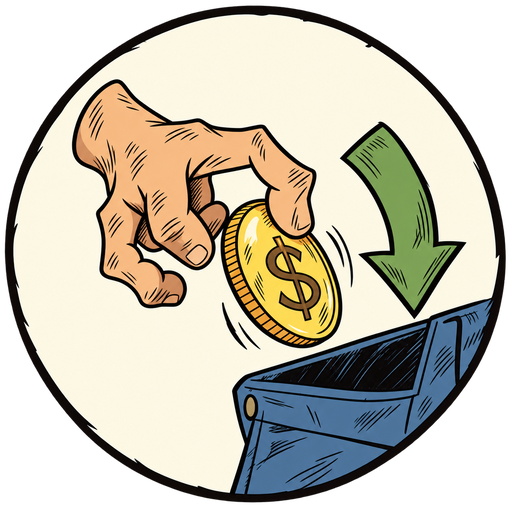
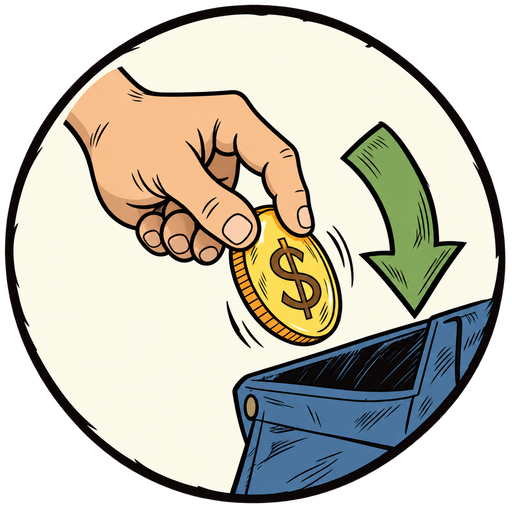
Tegn buy, give og take-off på nytt med naturlige hender

diff --git a/rapporter/verbhjul-hender-retur-02-20261015/forhandsvisning.html b/rapporter/verbhjul-hender-retur-02-20261015/forhandsvisning.html
@@ -1,0 +1,1 @@
+<!doctype html><html lang="nb"><meta charset="utf-8"><meta name="viewport" content="width=device-width"><title>Tre nye hender</title><style>body{font:18px system-ui;background:#eee6d6;color:#201d19;margin:24px}.pair{display:flex;gap:24px;flex-wrap:wrap}figure{margin:0}img{width:256px;max-width:100%}.small img{width:112px;margin:16px}section{margin-bottom:32px}a{color:#674815}</style><h1>Buy, give og take-off: andre rettelse</h1><p>Forrige versjon til venstre, nye hender til høyre. <a href="README.md">Kontrollnotat og prompter</a>.</p><section><h2>buy</h2><div class="pair"><figure><img src="for/buy.png"><figcaption>Avvist hånd</figcaption></figure><figure><img src="../../ui/verbhjul/buy.png"><figcaption>Ny hånd</figcaption></figure></div></section><section><h2>give</h2><div class="pair"><figure><img src="for/give.png"><figcaption>Avvist hånd</figcaption></figure><figure><img src="../../ui/verbhjul/give.png"><figcaption>Ny hånd</figcaption></figure></div></section><section><h2>take-off</h2><div class="pair"><figure><img src="for/take-off.png"><figcaption>Avvist hånd</figcaption></figure><figure><img src="../../ui/verbhjul/take-off.png"><figcaption>Ny hånd</figcaption></figure></div></section><div class="small"><img src="../../ui/verbhjul/buy.png" alt="buy"><img src="../../ui/verbhjul/give.png" alt="give"><img src="../../ui/verbhjul/take-off.png" alt="take-off"></div></html>

diff --git a/rapporter/verbhjul-hender-retur-02-20261015/README.md b/rapporter/verbhjul-hender-retur-02-20261015/README.md
@@ -1,0 +1,15 @@
+# Andre retur: buy, give og take-off
+
+Tom påpekte på nytt at hender/fingre i disse tre ikonene var feil. Den forrige kontrollen fanget ikke opp anatomifeilene. Tidligere påstander om femfingrede grep er ikke visuell godkjenning av disse tre filene.
+
+Hendene er tegnet helt om med enklere ledd, mykere håndflate og mindre innvendig skravering:
+
+- buy: tommel og pekefinger i myntgrep; tre øvrige fingre løst bøyd inn mot håndflaten. Mynt, lommebok og pil er beholdt.
+- give: håndflate vendt opp i trekvartvisning, fire atskilte fingre og separat tommel. Første nye kandidat manglet en synlig lillefinger og ble rettet i v2. Gaven er flyttet litt slik at fingrene er lettere å lese.
+- take-off: naturlig løftegrep med tommel over bremmen og fire fingre under. Blå fedora med rødt bånd, midtfold og vanlig brem er beholdt.
+
+Bare disse tre ikonene er erstattet. Tolv andre verbikoner og inventaret er uendret. Filer: 512 x 512 RGBA med ekte alfa, samme filnavn som mottaket allerede bruker. De nye hendene er visuelt gjennomgått i nærbilde og som 112-pikslers ikoner. Anatomikontrollen er manuell, ikke en konklusjon fra alfa eller filformat.
+
+`forhandsvisning.html` viser før og etter. `for/` er de tre avviste filene fra forrige runde, bevart som historikk. `kontroll-112.png` viser de nye ikonene i liten størrelse. `genereringer.json`, `prompter/` og `SHA256SUMS` dokumenterer valgte filer og faktiske prompter. Fire kall med innebygd image_gen, ingen modellbetegnelse oppgitt. FFmpeg gjør bare eksport og kontaktark. Råfiler er bevart i generatorens standardmappe og lokalt i ignorert `raa/`.
+
+Eksisterende build_ui tar inn de tre bildene med normal nedskalering til 256 piksler. Ingen motor- eller pipelinekode er endret. Ikke prøvd i spillmotoren og ikke registrert som godkjent av Tom.

diff --git a/log.md b/log.md
@@ -82,3 +82,8 @@ Tom ba om bare Zak først. Tre valgte v1-ark, 51 deler, 24 sammensatte ruter. 38
 - Tom ba om bedre fingre og bare hender uten dressjakke på verbikonene. Deretter presiserte han at hattene skal være fedora.
 - Rettet 11 håndikoner med innebygd image_gen, flere målrettede forsøk der fingre manglet eller ble for mange. Begge hattikoner viser samme blå fedora med rødt bånd, med inventarhatten som formreferanse. Fire ikoner uten hender og inventaret er uendret.
 - Faktiske prompter, genereringslogg, gamle bilder, før/etter, kontaktark og SHA-256 i rapporter/verbhjul-hender-20261015 (grafikk/ i kodegrenen). Eksport 512 x 512 RGBA; mottaket tar inn filene som før. Ingen motor- eller pipelinekode endret. Rettelsen er til kontroll, ikke prøvd i motoren.
+
+## 2026-10-15 17:26 (Codex)
+- Tom påpekte at buy, give og take-off fortsatt hadde feil fingre/hender. Den forrige kontrollen overså anatomifeilene. Tre hender er tegnet helt om med enklere naturlige grep, kort bart håndledd og mindre skravering. Fedoraen er beholdt.
+- Fire innebygde image_gen-kall: give v1 manglet en synlig finger og ble rettet i v2. Forrige runde er bevart og markert som avvist for disse tre filene. Tolv øvrige ikoner og inventaret er uendret.
+- Før/etter, nærbilder, 112-pikslers kontaktark, faktiske prompter, valg og SHA-256 i rapporter/verbhjul-hender-retur-02-20261015 (grafikk/ i kodegrenen). Filformat, alfa og eksisterende UI-mottak kontrollert. Ny rettelse er til vurdering, ikke prøvd i motoren.

diff --git a/rapporter/verbhjul-hender-20261015/README.md b/rapporter/verbhjul-hender-20261015/README.md
@@ -18,3 +18,6 @@ Begge hattikonene bruker en blå fedora med rødt bånd, lav krone, midtfold, in
 - SHA-256, alfa, størrelser, eksisterende mottak i `build_ui` og visuell kontroll av kontaktarket er kontrollert. Mottaket skalerer til 256 piksler som før. Piler og handlingsrekvisitter er bevart.
 
 De nye rettelsene er ikke prøvd i spillmotoren og er ikke registrert som visuelt godkjent av Tom. De inngår i oppdateringen av grafikk-PR-en, uten motor- eller pipelineendringer. Tidligere visuell godkjenning gjelder den eldre leveransen; denne rettelsen følger hans konkrete retur.
+
+## Andre retur
+Tom avviste buy, give og take-off på nytt. De tre hendene er erstattet. [Ny tegning, kontroll og prompter](../verbhjul-hender-retur-02-20261015/README.md) gjelder foran anatomivurderingen over. Gamle valgte SHA-256 peker nå på de bevarte avviste filene i den nye rapportens for/-mappe.

diff --git a/rapporter/hjul-inventar-20261015/notat.md b/rapporter/hjul-inventar-20261015/notat.md
@@ -45,3 +45,6 @@ Tom godkjente hele inventar- og verbhjulleveransen. Unntaket gjaldt The King i k
 ## Retur: hender og fedora, 15. oktober
 
 Tom ba om tydelige fingre og bare hender uten dressjakke, og presiserte at begge hattene skal være fedora. 11 ikoner er erstattet; fire ikoner uten hånd og hele inventaret er uendret. Faktiske nye prompter, før/etter, valgte SHA-256 og kontroll står i [rettelsen](../verbhjul-hender-20261015/README.md). Ny rettelse er til kontroll og ikke prøvd i motoren.
+
+## Andre retur på hender
+Buy, give og take-off er tegnet om etter ny retur fra Tom. [Siste rettelse](../verbhjul-hender-retur-02-20261015/README.md) med manuell anatomivurdering og nye prompter.
